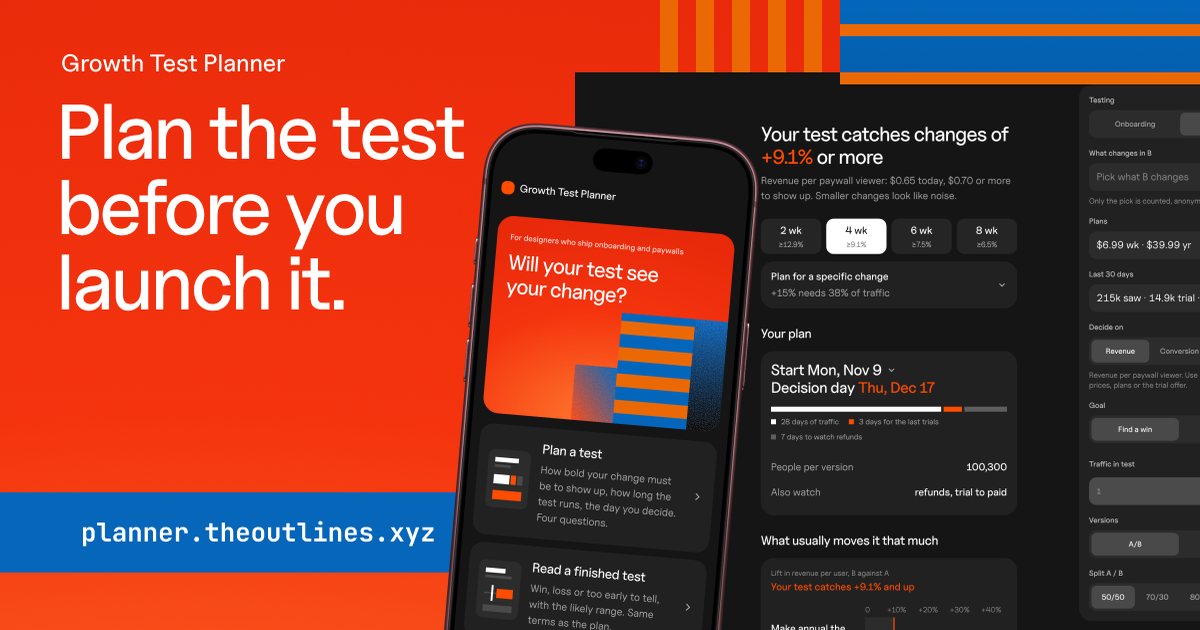
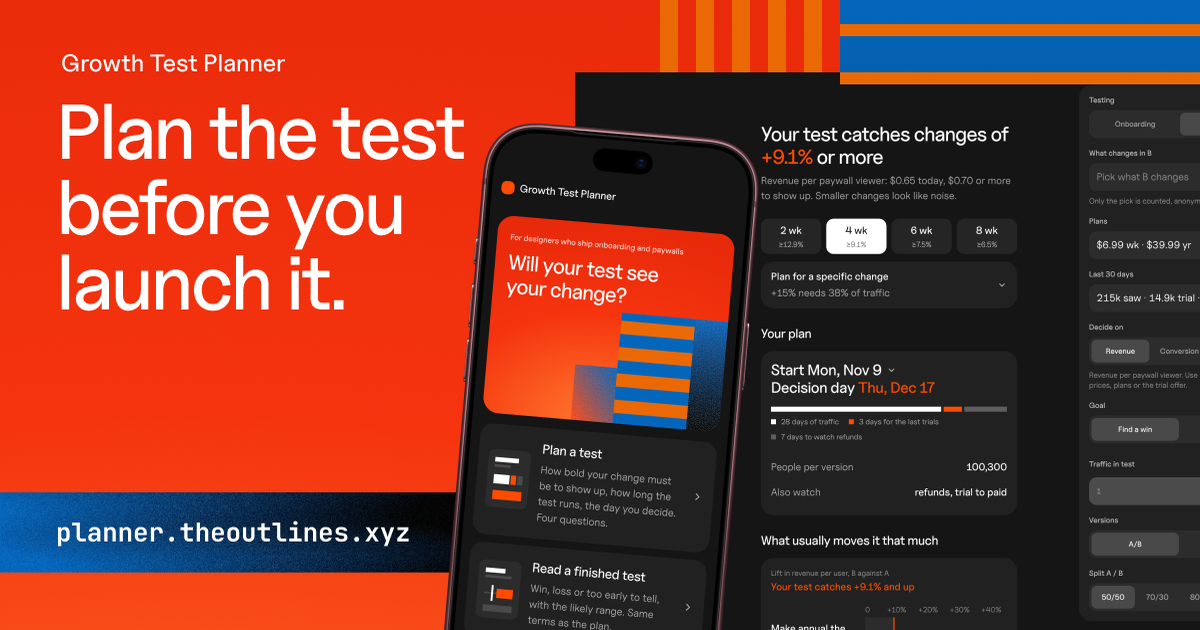
New og:image (v=5)
Claude-Session: https://claude.ai/code/session_016e7S9ixwsC8zrAYyfM86Vy

Changed region(s): [[0.0308, 0.754, 0.4008, 0.9349]]

diff --git a/minimum-detectable-effect/index.html b/minimum-detectable-effect/index.html
@@ -11,7 +11,7 @@
 <meta property="og:description" content="Minimum detectable effect for subscription app A/B tests: typical MDEs for paywall and onboarding tests by traffic and weeks, how it is worked out, and what to do when it is high.">
 <meta property="og:url" content="https://planner.theoutlines.xyz/minimum-detectable-effect/">
 <meta property="og:type" content="article">
-<meta property="og:image" content="https://planner.theoutlines.xyz/assets/og.png?v=4">
+<meta property="og:image" content="https://planner.theoutlines.xyz/assets/og.png?v=5">
 <meta name="twitter:card" content="summary_large_image">
 <link rel="icon" href="/favicon.svg" type="image/svg+xml">
 <link rel="preload" href="/fonts/UncutSans-Variable.woff2" as="font" type="font/woff2" crossorigin>

diff --git a/paywall-ab-test-duration/index.html b/paywall-ab-test-duration/index.html
@@ -11,7 +11,7 @@
 <meta property="og:description" content="How long to run a paywall A/B test in a subscription app: what a test can catch by weekly traffic and weeks, plus the free trial and refunds before you decide.">
 <meta property="og:url" content="https://planner.theoutlines.xyz/paywall-ab-test-duration/">
 <meta property="og:type" content="article">
-<meta property="og:image" content="https://planner.theoutlines.xyz/assets/og.png?v=4">
+<meta property="og:image" content="https://planner.theoutlines.xyz/assets/og.png?v=5">
 <meta name="twitter:card" content="summary_large_image">
 <link rel="icon" href="/favicon.svg" type="image/svg+xml">
 <link rel="preload" href="/fonts/UncutSans-Variable.woff2" as="font" type="font/woff2" crossorigin>

diff --git a/free-trial-ab-test/index.html b/free-trial-ab-test/index.html
@@ -11,7 +11,7 @@
 <meta property="og:description" content="When to decide a paywall A/B test with a free trial: wait for the longest trial to bill and a week for refunds. Decision days for 3, 7 and 14-day trials.">
 <meta property="og:url" content="https://planner.theoutlines.xyz/free-trial-ab-test/">
 <meta property="og:type" content="article">
-<meta property="og:image" content="https://planner.theoutlines.xyz/assets/og.png?v=4">
+<meta property="og:image" content="https://planner.theoutlines.xyz/assets/og.png?v=5">
 <meta name="twitter:card" content="summary_large_image">
 <link rel="icon" href="/favicon.svg" type="image/svg+xml">
 <link rel="preload" href="/fonts/UncutSans-Variable.woff2" as="font" type="font/woff2" crossorigin>

diff --git a/onboarding-ab-test/index.html b/onboarding-ab-test/index.html
@@ -11,7 +11,7 @@
 <meta property="og:description" content="Should an onboarding A/B test decide on trial starts or paid conversion? What each can catch by traffic, and which to choose for which change.">
 <meta property="og:url" content="https://planner.theoutlines.xyz/onboarding-ab-test/">
 <meta property="og:type" content="article">
-<meta property="og:image" content="https://planner.theoutlines.xyz/assets/og.png?v=4">
+<meta property="og:image" content="https://planner.theoutlines.xyz/assets/og.png?v=5">
 <meta name="twitter:card" content="summary_large_image">
 <link rel="icon" href="/favicon.svg" type="image/svg+xml">
 <link rel="preload" href="/fonts/UncutSans-Variable.woff2" as="font" type="font/woff2" crossorigin>

diff --git a/index.html b/index.html
@@ -11,7 +11,7 @@
 <meta property="og:description" content="Plan a paywall or onboarding A/B test: how long to run it, the smallest change it can catch, the day you decide after free trials. Free, for subscription apps.">
 <meta property="og:url" content="https://planner.theoutlines.xyz/">
 <meta property="og:type" content="website">
-<meta property="og:image" content="https://planner.theoutlines.xyz/assets/og.png?v=4">
+<meta property="og:image" content="https://planner.theoutlines.xyz/assets/og.png?v=5">
 <meta name="twitter:card" content="summary_large_image">
 <link rel="icon" href="favicon.svg" type="image/svg+xml">
 <link rel="preload" href="fonts/UncutSans-Variable.woff2" as="font" type="font/woff2" crossorigin>

diff --git a/tools/genpages.py b/tools/genpages.py
@@ -124,7 +124,7 @@ def page(slug, h1):
 <meta property="og:description" content="{DESC[slug]}">
 <meta property="og:url" content="{SITE}/{slug}/">
 <meta property="og:type" content="article">
-<meta property="og:image" content="{SITE}/assets/og.png?v=4">
+<meta property="og:image" content="{SITE}/assets/og.png?v=5">
 <meta name="twitter:card" content="summary_large_image">
 <link rel="icon" href="/favicon.svg" type="image/svg+xml">
 <link rel="preload" href="/fonts/UncutSans-Variable.woff2" as="font" type="font/woff2" crossorigin>
